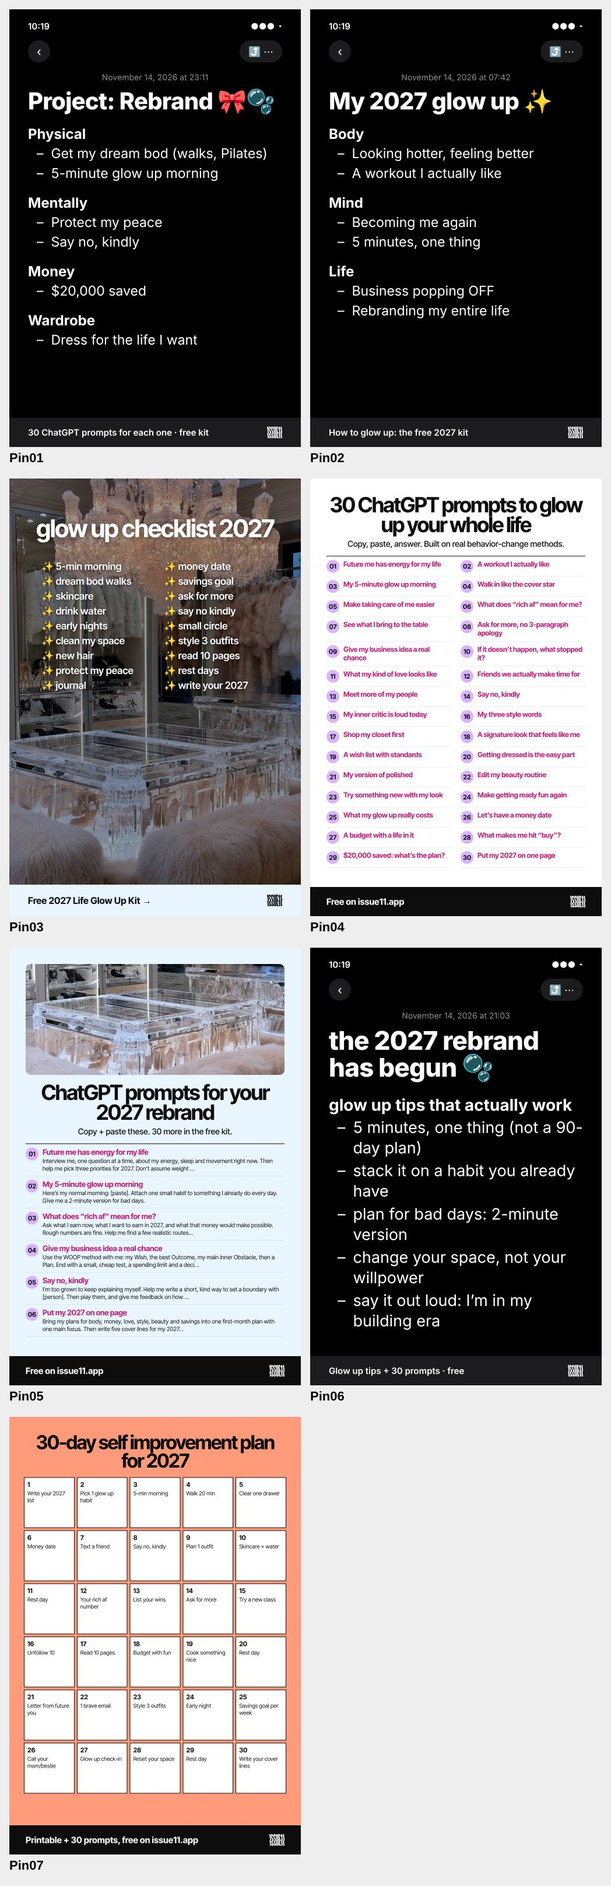
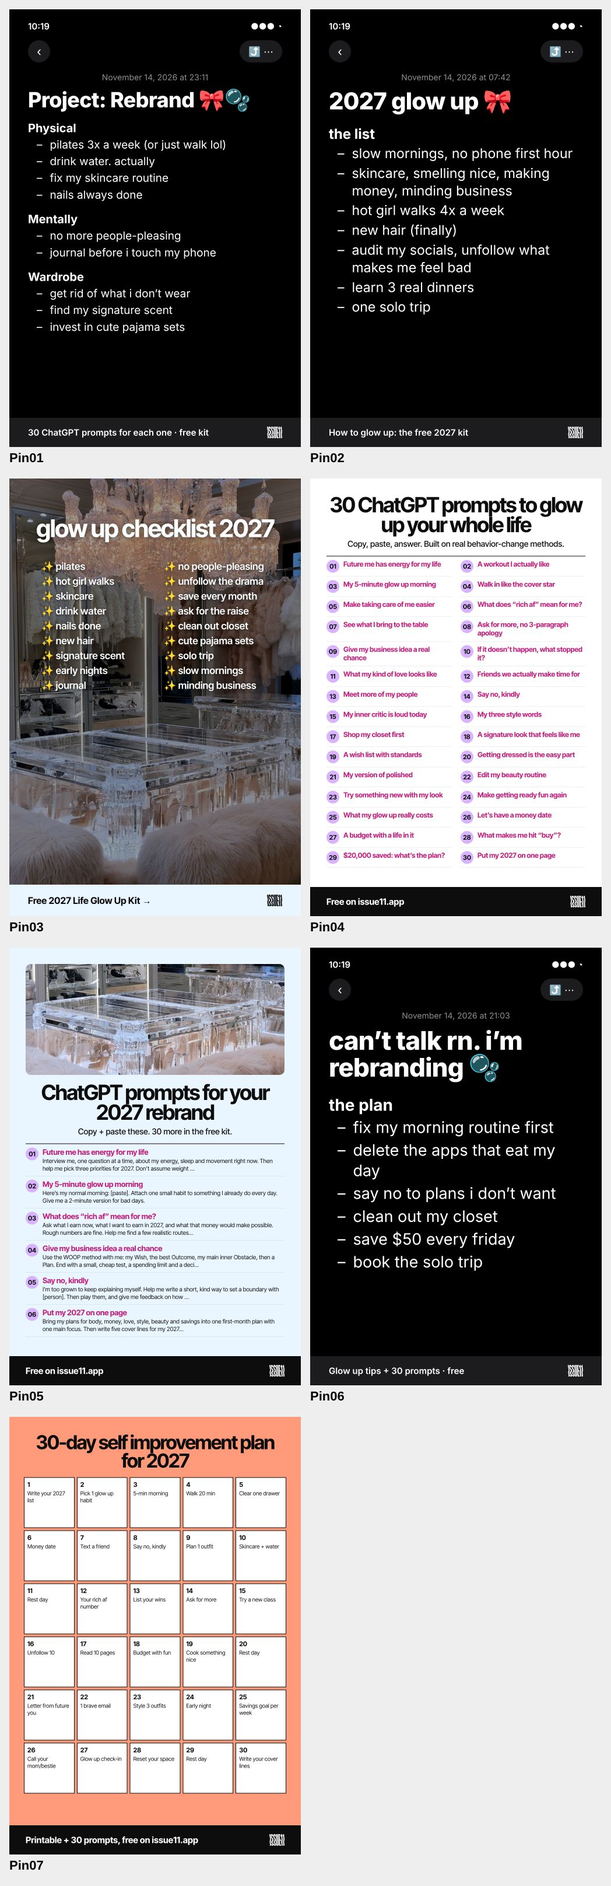
Pins v4: real-voice Notes copy (no AI slogans), honest plan wording
Claude-Session: https://claude.ai/code/session_013zCndAMB566ZdjtTW5BiS4

diff --git a/drafts/pinterest/batch1/Pin03.dc.html b/drafts/pinterest/batch1/Pin03.dc.html
@@ -14,7 +14,7 @@
 <div style="width:1000px; height:1500px; position:relative; overflow:hidden; background:#0D0D0D; font-family:'Inter Tight', 'Apple Color Emoji','Noto Color Emoji','Segoe UI Emoji', sans-serif; color:#0D0D0D">
 <img src="/_blob/7c7c9f7639583c427c5ebf34599a953c" alt="Aspirational editorial photo" style="display:block; object-fit:cover; object-position:50% 72%; position:absolute; inset:0; width:100%; height:100%; filter:brightness(0.62) contrast(1.05)">
 <h1 style="position:absolute; left:0; right:0; top:120px; margin:0; text-align:center; color:#fff; font-size:84px; font-weight:700; letter-spacing:-0.04em; text-shadow:0 2px 16px rgba(0,0,0,0.5)">glow up checklist 2027</h1>
-<div style="position:absolute; left:110px; right:90px; top:280px; display:grid; grid-template-columns:1fr 1fr; gap:0 40px; color:#fff"><div><p style="margin:0 0 10px; font-size:34px; font-weight:600; text-shadow:0 2px 10px rgba(0,0,0,0.55)">✨ 5-min morning</p><p style="margin:0 0 10px; font-size:34px; font-weight:600; text-shadow:0 2px 10px rgba(0,0,0,0.55)">✨ dream bod walks</p><p style="margin:0 0 10px; font-size:34px; font-weight:600; text-shadow:0 2px 10px rgba(0,0,0,0.55)">✨ skincare</p><p style="margin:0 0 10px; font-size:34px; font-weight:600; text-shadow:0 2px 10px rgba(0,0,0,0.55)">✨ drink water</p><p style="margin:0 0 10px; font-size:34px; font-weight:600; text-shadow:0 2px 10px rgba(0,0,0,0.55)">✨ early nights</p><p style="margin:0 0 10px; font-size:34px; font-weight:600; text-shadow:0 2px 10px rgba(0,0,0,0.55)">✨ clean my space</p><p style="margin:0 0 10px; font-size:34px; font-weight:600; text-shadow:0 2px 10px rgba(0,0,0,0.55)">✨ new hair</p><p style="margin:0 0 10px; font-size:34px; font-weight:600; text-shadow:0 2px 10px rgba(0,0,0,0.55)">✨ protect my peace</p><p style="margin:0 0 10px; font-size:34px; font-weight:600; text-shadow:0 2px 10px rgba(0,0,0,0.55)">✨ journal</p></div><div><p style="margin:0 0 10px; font-size:34px; font-weight:600; text-shadow:0 2px 10px rgba(0,0,0,0.55)">✨ money date</p><p style="margin:0 0 10px; font-size:34px; font-weight:600; text-shadow:0 2px 10px rgba(0,0,0,0.55)">✨ savings goal</p><p style="margin:0 0 10px; font-size:34px; font-weight:600; text-shadow:0 2px 10px rgba(0,0,0,0.55)">✨ ask for more</p><p style="margin:0 0 10px; font-size:34px; font-weight:600; text-shadow:0 2px 10px rgba(0,0,0,0.55)">✨ say no kindly</p><p style="margin:0 0 10px; font-size:34px; font-weight:600; text-shadow:0 2px 10px rgba(0,0,0,0.55)">✨ small circle</p><p style="margin:0 0 10px; font-size:34px; font-weight:600; text-shadow:0 2px 10px rgba(0,0,0,0.55)">✨ style 3 outfits</p><p style="margin:0 0 10px; font-size:34px; font-weight:600; text-shadow:0 2px 10px rgba(0,0,0,0.55)">✨ read 10 pages</p><p style="margin:0 0 10px; font-size:34px; font-weight:600; text-shadow:0 2px 10px rgba(0,0,0,0.55)">✨ rest days</p><p style="margin:0 0 10px; font-size:34px; font-weight:600; text-shadow:0 2px 10px rgba(0,0,0,0.55)">✨ write your 2027</p></div></div>
+<div style="position:absolute; left:110px; right:90px; top:280px; display:grid; grid-template-columns:1fr 1fr; gap:0 40px; color:#fff"><div><p style="margin:0 0 10px; font-size:34px; font-weight:600; text-shadow:0 2px 10px rgba(0,0,0,0.55)">✨ pilates</p><p style="margin:0 0 10px; font-size:34px; font-weight:600; text-shadow:0 2px 10px rgba(0,0,0,0.55)">✨ hot girl walks</p><p style="margin:0 0 10px; font-size:34px; font-weight:600; text-shadow:0 2px 10px rgba(0,0,0,0.55)">✨ skincare</p><p style="margin:0 0 10px; font-size:34px; font-weight:600; text-shadow:0 2px 10px rgba(0,0,0,0.55)">✨ drink water</p><p style="margin:0 0 10px; font-size:34px; font-weight:600; text-shadow:0 2px 10px rgba(0,0,0,0.55)">✨ nails done</p><p style="margin:0 0 10px; font-size:34px; font-weight:600; text-shadow:0 2px 10px rgba(0,0,0,0.55)">✨ new hair</p><p style="margin:0 0 10px; font-size:34px; font-weight:600; text-shadow:0 2px 10px rgba(0,0,0,0.55)">✨ signature scent</p><p style="margin:0 0 10px; font-size:34px; font-weight:600; text-shadow:0 2px 10px rgba(0,0,0,0.55)">✨ early nights</p><p style="margin:0 0 10px; font-size:34px; font-weight:600; text-shadow:0 2px 10px rgba(0,0,0,0.55)">✨ journal</p></div><div><p style="margin:0 0 10px; font-size:34px; font-weight:600; text-shadow:0 2px 10px rgba(0,0,0,0.55)">✨ no people-pleasing</p><p style="margin:0 0 10px; font-size:34px; font-weight:600; text-shadow:0 2px 10px rgba(0,0,0,0.55)">✨ unfollow the drama</p><p style="margin:0 0 10px; font-size:34px; font-weight:600; text-shadow:0 2px 10px rgba(0,0,0,0.55)">✨ save every month</p><p style="margin:0 0 10px; font-size:34px; font-weight:600; text-shadow:0 2px 10px rgba(0,0,0,0.55)">✨ ask for the raise</p><p style="margin:0 0 10px; font-size:34px; font-weight:600; text-shadow:0 2px 10px rgba(0,0,0,0.55)">✨ clean out closet</p><p style="margin:0 0 10px; font-size:34px; font-weight:600; text-shadow:0 2px 10px rgba(0,0,0,0.55)">✨ cute pajama sets</p><p style="margin:0 0 10px; font-size:34px; font-weight:600; text-shadow:0 2px 10px rgba(0,0,0,0.55)">✨ solo trip</p><p style="margin:0 0 10px; font-size:34px; font-weight:600; text-shadow:0 2px 10px rgba(0,0,0,0.55)">✨ slow mornings</p><p style="margin:0 0 10px; font-size:34px; font-weight:600; text-shadow:0 2px 10px rgba(0,0,0,0.55)">✨ minding business</p></div></div>
 <div style="position:absolute; left:0; right:0; bottom:0; padding:34px 64px; background:#EAF6FF; display:flex; justify-content:space-between; align-items:center"><span style="font-size:32px; font-weight:700">Free 2027 Life Glow Up Kit →</span><img src="/_blob/d196614efc6265e2205729134fb523b8" alt="ISSUE11" style="height:40px; width:auto;  "></div>
 </div>
 </x-dc>

diff --git a/drafts/pinterest/batch1/Pin01.dc.html b/drafts/pinterest/batch1/Pin01.dc.html
@@ -16,9 +16,9 @@
   <div style="display:flex; justify-content:space-between; font-size:30px; font-weight:600"><span>10:19</span><span>●●● ◔</span></div>
   <div style="display:flex; justify-content:space-between; margin-top:30px"><span style="width:76px; height:76px; border-radius:50%; background:#1c1c1e; display:flex; align-items:center; justify-content:center; font-size:40px">‹</span><span style="height:76px; padding:0 30px; border-radius:40px; background:#1c1c1e; display:flex; align-items:center; font-size:34px">⤴ ⋯</span></div>
   <p style="margin:34px 0 0; text-align:center; font-size:28px; color:#8e8e93">November 14, 2026 at 23:11</p>
-  <h1 style="margin:22px 0 0; font-size:80px; font-weight:800; letter-spacing:-0.02em; line-height:1.05">Project: Rebrand 🎀🫧</h1>
+  <h1 style="margin:22px 0 0; font-size:72px; font-weight:800; letter-spacing:-0.02em; line-height:1.05">Project: Rebrand 🎀🫧</h1>
   
-  <p style="margin:41px 0 6px; font-weight:700; font-size:48px">Physical</p><div style="padding-left:30px; font-size:46px; line-height:1.3"><div style="display:flex; gap:26px; margin:8px 0"><span>–</span><span>Get my dream bod (walks, Pilates)</span></div><div style="display:flex; gap:26px; margin:8px 0"><span>–</span><span>5-minute glow up morning</span></div></div><p style="margin:41px 0 6px; font-weight:700; font-size:48px">Mentally</p><div style="padding-left:30px; font-size:46px; line-height:1.3"><div style="display:flex; gap:26px; margin:8px 0"><span>–</span><span>Protect my peace</span></div><div style="display:flex; gap:26px; margin:8px 0"><span>–</span><span>Say no, kindly</span></div></div><p style="margin:41px 0 6px; font-weight:700; font-size:48px">Money</p><div style="padding-left:30px; font-size:46px; line-height:1.3"><div style="display:flex; gap:26px; margin:8px 0"><span>–</span><span>$20,000 saved</span></div></div><p style="margin:41px 0 6px; font-weight:700; font-size:48px">Wardrobe</p><div style="padding-left:30px; font-size:46px; line-height:1.3"><div style="display:flex; gap:26px; margin:8px 0"><span>–</span><span>Dress for the life I want</span></div></div>
+  <p style="margin:34px 0 6px; font-weight:700; font-size:40px">Physical</p><div style="padding-left:30px; font-size:38px; line-height:1.3"><div style="display:flex; gap:26px; margin:8px 0"><span>–</span><span>pilates 3x a week (or just walk lol)</span></div><div style="display:flex; gap:26px; margin:8px 0"><span>–</span><span>drink water. actually</span></div><div style="display:flex; gap:26px; margin:8px 0"><span>–</span><span>fix my skincare routine</span></div><div style="display:flex; gap:26px; margin:8px 0"><span>–</span><span>nails always done</span></div></div><p style="margin:34px 0 6px; font-weight:700; font-size:40px">Mentally</p><div style="padding-left:30px; font-size:38px; line-height:1.3"><div style="display:flex; gap:26px; margin:8px 0"><span>–</span><span>no more people-pleasing</span></div><div style="display:flex; gap:26px; margin:8px 0"><span>–</span><span>journal before i touch my phone</span></div></div><p style="margin:34px 0 6px; font-weight:700; font-size:40px">Wardrobe</p><div style="padding-left:30px; font-size:38px; line-height:1.3"><div style="display:flex; gap:26px; margin:8px 0"><span>–</span><span>get rid of what i don’t wear</span></div><div style="display:flex; gap:26px; margin:8px 0"><span>–</span><span>find my signature scent</span></div><div style="display:flex; gap:26px; margin:8px 0"><span>–</span><span>invest in cute pajama sets</span></div></div>
 </div>
 <div style="position:absolute; left:0; right:0; bottom:0; padding:30px 64px; background:#1c1c1e; display:flex; justify-content:space-between; align-items:center; color:#fff; font-family:-apple-system, 'SF Pro Text', 'Inter Tight', system-ui, sans-serif">
   <span style="font-size:30px; font-weight:600">30 ChatGPT prompts for each one · free kit</span><img src="/_blob/d196614efc6265e2205729134fb523b8" alt="ISSUE11" style="height:40px; width:auto; filter:invert(1); ">

diff --git a/drafts/pinterest/batch1/Pin02.dc.html b/drafts/pinterest/batch1/Pin02.dc.html
@@ -16,9 +16,9 @@
   <div style="display:flex; justify-content:space-between; font-size:30px; font-weight:600"><span>10:19</span><span>●●● ◔</span></div>
   <div style="display:flex; justify-content:space-between; margin-top:30px"><span style="width:76px; height:76px; border-radius:50%; background:#1c1c1e; display:flex; align-items:center; justify-content:center; font-size:40px">‹</span><span style="height:76px; padding:0 30px; border-radius:40px; background:#1c1c1e; display:flex; align-items:center; font-size:34px">⤴ ⋯</span></div>
   <p style="margin:34px 0 0; text-align:center; font-size:28px; color:#8e8e93">November 14, 2026 at 07:42</p>
-  <h1 style="margin:22px 0 0; font-size:80px; font-weight:800; letter-spacing:-0.02em; line-height:1.05">My 2027 glow up ✨</h1>
+  <h1 style="margin:22px 0 0; font-size:80px; font-weight:800; letter-spacing:-0.02em; line-height:1.05">2027 glow up 🎀</h1>
   
-  <p style="margin:41px 0 6px; font-weight:700; font-size:48px">Body</p><div style="padding-left:30px; font-size:46px; line-height:1.3"><div style="display:flex; gap:26px; margin:8px 0"><span>–</span><span>Looking hotter, feeling better</span></div><div style="display:flex; gap:26px; margin:8px 0"><span>–</span><span>A workout I actually like</span></div></div><p style="margin:41px 0 6px; font-weight:700; font-size:48px">Mind</p><div style="padding-left:30px; font-size:46px; line-height:1.3"><div style="display:flex; gap:26px; margin:8px 0"><span>–</span><span>Becoming me again</span></div><div style="display:flex; gap:26px; margin:8px 0"><span>–</span><span>5 minutes, one thing</span></div></div><p style="margin:41px 0 6px; font-weight:700; font-size:48px">Life</p><div style="padding-left:30px; font-size:46px; line-height:1.3"><div style="display:flex; gap:26px; margin:8px 0"><span>–</span><span>Business popping OFF</span></div><div style="display:flex; gap:26px; margin:8px 0"><span>–</span><span>Rebranding my entire life</span></div></div>
+  <p style="margin:41px 0 6px; font-weight:700; font-size:48px">the list</p><div style="padding-left:30px; font-size:46px; line-height:1.3"><div style="display:flex; gap:26px; margin:8px 0"><span>–</span><span>slow mornings, no phone first hour</span></div><div style="display:flex; gap:26px; margin:8px 0"><span>–</span><span>skincare, smelling nice, making money, minding business</span></div><div style="display:flex; gap:26px; margin:8px 0"><span>–</span><span>hot girl walks 4x a week</span></div><div style="display:flex; gap:26px; margin:8px 0"><span>–</span><span>new hair (finally)</span></div><div style="display:flex; gap:26px; margin:8px 0"><span>–</span><span>audit my socials, unfollow what makes me feel bad</span></div><div style="display:flex; gap:26px; margin:8px 0"><span>–</span><span>learn 3 real dinners</span></div><div style="display:flex; gap:26px; margin:8px 0"><span>–</span><span>one solo trip</span></div></div>
 </div>
 <div style="position:absolute; left:0; right:0; bottom:0; padding:30px 64px; background:#1c1c1e; display:flex; justify-content:space-between; align-items:center; color:#fff; font-family:-apple-system, 'SF Pro Text', 'Inter Tight', system-ui, sans-serif">
   <span style="font-size:30px; font-weight:600">How to glow up: the free 2027 kit</span><img src="/_blob/d196614efc6265e2205729134fb523b8" alt="ISSUE11" style="height:40px; width:auto; filter:invert(1); ">

diff --git a/drafts/pinterest/batch1/Pin09.dc.html b/drafts/pinterest/batch1/Pin09.dc.html
@@ -16,9 +16,9 @@
   <div style="display:flex; justify-content:space-between; font-size:30px; font-weight:600"><span>10:19</span><span>●●● ◔</span></div>
   <div style="display:flex; justify-content:space-between; margin-top:30px"><span style="width:76px; height:76px; border-radius:50%; background:#1c1c1e; display:flex; align-items:center; justify-content:center; font-size:40px">‹</span><span style="height:76px; padding:0 30px; border-radius:40px; background:#1c1c1e; display:flex; align-items:center; font-size:34px">⤴ ⋯</span></div>
   <p style="margin:34px 0 0; text-align:center; font-size:28px; color:#8e8e93">Thursday at 23:04</p>
-  <h1 style="margin:22px 0 0; font-size:80px; font-weight:800; letter-spacing:-0.02em; line-height:1.05">rebranding my entire life at 11pm 🎀</h1>
+  <h1 style="margin:22px 0 0; font-size:88px; font-weight:800; letter-spacing:-0.02em; line-height:1.05">rebranding my entire life at 11pm 🎀</h1>
   
-  <p style="margin:41px 0 6px; font-weight:700; font-size:48px">step 1</p><div style="padding-left:30px; font-size:46px; line-height:1.3"><div style="display:flex; gap:26px; margin:8px 0"><span>–</span><span>write my 2027 list in my own words</span></div></div><p style="margin:41px 0 6px; font-weight:700; font-size:48px">step 2</p><div style="padding-left:30px; font-size:46px; line-height:1.3"><div style="display:flex; gap:26px; margin:8px 0"><span>–</span><span>paste one ChatGPT prompt per chapter</span></div></div><p style="margin:41px 0 6px; font-weight:700; font-size:48px">step 3</p><div style="padding-left:30px; font-size:46px; line-height:1.3"><div style="display:flex; gap:26px; margin:8px 0"><span>–</span><span>do one small thing this week</span></div></div><p style="margin:41px 0 6px; font-weight:700; font-size:48px">step 4</p><div style="padding-left:30px; font-size:46px; line-height:1.3"><div style="display:flex; gap:26px; margin:8px 0"><span>–</span><span>repeat. same girl, bigger dreams.</span></div></div>
+  <p style="margin:48px 0 6px; font-weight:700; font-size:56px">to do</p><div style="padding-left:30px; font-size:54px; line-height:1.3"><div style="display:flex; gap:26px; margin:8px 0"><span>–</span><span>clean out my camera roll</span></div><div style="display:flex; gap:26px; margin:8px 0"><span>–</span><span>update my wardrobe (pinterest board first)</span></div><div style="display:flex; gap:26px; margin:8px 0"><span>–</span><span>no more people-pleasing</span></div><div style="display:flex; gap:26px; margin:8px 0"><span>–</span><span>find a gym i actually like</span></div><div style="display:flex; gap:26px; margin:8px 0"><span>–</span><span>open a savings account just for travel</span></div><div style="display:flex; gap:26px; margin:8px 0"><span>–</span><span>sunday reset: sheets, nails, meal prep</span></div></div>
 </div>
 <div style="position:absolute; left:0; right:0; bottom:0; padding:30px 64px; background:#1c1c1e; display:flex; justify-content:space-between; align-items:center; color:#fff; font-family:-apple-system, 'SF Pro Text', 'Inter Tight', system-ui, sans-serif">
   <span style="font-size:30px; font-weight:600">How to rebrand yourself · free kit</span><img src="/_blob/d196614efc6265e2205729134fb523b8" alt="ISSUE11" style="height:40px; width:auto; filter:invert(1); ">

diff --git a/drafts/pinterest/batch1/Pin06.dc.html b/drafts/pinterest/batch1/Pin06.dc.html
@@ -2,7 +2,7 @@
 <html lang="en">
 <head>
 <meta charset="utf-8">
-<title>Glow up tips · Notes 'the 2027 rebrand has begun'</title>
+<title>Glow up tips · Notes 'can't talk rn'</title>
 <script src="./support.js"></script>
 </head>
 <body>
@@ -16,9 +16,9 @@
   <div style="display:flex; justify-content:space-between; font-size:30px; font-weight:600"><span>10:19</span><span>●●● ◔</span></div>
   <div style="display:flex; justify-content:space-between; margin-top:30px"><span style="width:76px; height:76px; border-radius:50%; background:#1c1c1e; display:flex; align-items:center; justify-content:center; font-size:40px">‹</span><span style="height:76px; padding:0 30px; border-radius:40px; background:#1c1c1e; display:flex; align-items:center; font-size:34px">⤴ ⋯</span></div>
   <p style="margin:34px 0 0; text-align:center; font-size:28px; color:#8e8e93">November 14, 2026 at 21:03</p>
-  <h1 style="margin:22px 0 0; font-size:88px; font-weight:800; letter-spacing:-0.02em; line-height:1.05">the 2027 rebrand has begun 🫧</h1>
+  <h1 style="margin:22px 0 0; font-size:88px; font-weight:800; letter-spacing:-0.02em; line-height:1.05">can’t talk rn. i’m rebranding 🫧</h1>
   
-  <p style="margin:48px 0 6px; font-weight:700; font-size:56px">glow up tips that actually work</p><div style="padding-left:30px; font-size:54px; line-height:1.3"><div style="display:flex; gap:26px; margin:8px 0"><span>–</span><span>5 minutes, one thing (not a 90-day plan)</span></div><div style="display:flex; gap:26px; margin:8px 0"><span>–</span><span>stack it on a habit you already have</span></div><div style="display:flex; gap:26px; margin:8px 0"><span>–</span><span>plan for bad days: 2-minute version</span></div><div style="display:flex; gap:26px; margin:8px 0"><span>–</span><span>change your space, not your willpower</span></div><div style="display:flex; gap:26px; margin:8px 0"><span>–</span><span>say it out loud: I’m in my building era</span></div></div>
+  <p style="margin:48px 0 6px; font-weight:700; font-size:56px">the plan</p><div style="padding-left:30px; font-size:54px; line-height:1.3"><div style="display:flex; gap:26px; margin:8px 0"><span>–</span><span>fix my morning routine first</span></div><div style="display:flex; gap:26px; margin:8px 0"><span>–</span><span>delete the apps that eat my day</span></div><div style="display:flex; gap:26px; margin:8px 0"><span>–</span><span>say no to plans i don’t want</span></div><div style="display:flex; gap:26px; margin:8px 0"><span>–</span><span>clean out my closet</span></div><div style="display:flex; gap:26px; margin:8px 0"><span>–</span><span>save $50 every friday</span></div><div style="display:flex; gap:26px; margin:8px 0"><span>–</span><span>book the solo trip</span></div></div>
 </div>
 <div style="position:absolute; left:0; right:0; bottom:0; padding:30px 64px; background:#1c1c1e; display:flex; justify-content:space-between; align-items:center; color:#fff; font-family:-apple-system, 'SF Pro Text', 'Inter Tight', system-ui, sans-serif">
   <span style="font-size:30px; font-weight:600">Glow up tips + 30 prompts · free</span><img src="/_blob/d196614efc6265e2205729134fb523b8" alt="ISSUE11" style="height:40px; width:auto; filter:invert(1); ">

diff --git a/drafts/pinterest/batch1/Pin15.dc.html b/drafts/pinterest/batch1/Pin15.dc.html
@@ -18,7 +18,7 @@
   <p style="margin:34px 0 0; text-align:center; font-size:28px; color:#8e8e93">November 15, 2026 at 09:12</p>
   <h1 style="margin:22px 0 0; font-size:80px; font-weight:800; letter-spacing:-0.02em; line-height:1.05">how to lifemaxx 2027 🫧</h1>
   
-  <p style="margin:41px 0 6px; font-weight:700; font-size:48px">body</p><div style="padding-left:30px; font-size:46px; line-height:1.3"><div style="display:flex; gap:26px; margin:8px 0"><span>–</span><span>walks + Pilates, dream bod energy</span></div><div style="display:flex; gap:26px; margin:8px 0"><span>–</span><span>5-minute glow up morning</span></div></div><p style="margin:41px 0 6px; font-weight:700; font-size:48px">money</p><div style="padding-left:30px; font-size:46px; line-height:1.3"><div style="display:flex; gap:26px; margin:8px 0"><span>–</span><span>know my rich af number</span></div><div style="display:flex; gap:26px; margin:8px 0"><span>–</span><span>$20,000 saved, on purpose</span></div></div><p style="margin:41px 0 6px; font-weight:700; font-size:48px">life</p><div style="padding-left:30px; font-size:46px; line-height:1.3"><div style="display:flex; gap:26px; margin:8px 0"><span>–</span><span>small circle, big plans</span></div><div style="display:flex; gap:26px; margin:8px 0"><span>–</span><span>rebranding my entire life</span></div></div>
+  <p style="margin:41px 0 6px; font-weight:700; font-size:48px">daily</p><div style="padding-left:30px; font-size:46px; line-height:1.3"><div style="display:flex; gap:26px; margin:8px 0"><span>–</span><span>pilates or a hot girl walk</span></div><div style="display:flex; gap:26px; margin:8px 0"><span>–</span><span>water + protein (be real)</span></div><div style="display:flex; gap:26px; margin:8px 0"><span>–</span><span>phone in another room after 10pm</span></div></div><p style="margin:41px 0 6px; font-weight:700; font-size:48px">monthly</p><div style="padding-left:30px; font-size:46px; line-height:1.3"><div style="display:flex; gap:26px; margin:8px 0"><span>–</span><span>save first, spend after</span></div><div style="display:flex; gap:26px; margin:8px 0"><span>–</span><span>one new thing: a class, a city, a recipe</span></div></div><p style="margin:41px 0 6px; font-weight:700; font-size:48px">always</p><div style="padding-left:30px; font-size:46px; line-height:1.3"><div style="display:flex; gap:26px; margin:8px 0"><span>–</span><span>skincare, smelling nice, minding business</span></div></div>
 </div>
 <div style="position:absolute; left:0; right:0; bottom:0; padding:30px 64px; background:#1c1c1e; display:flex; justify-content:space-between; align-items:center; color:#fff; font-family:-apple-system, 'SF Pro Text', 'Inter Tight', system-ui, sans-serif">
   <span style="font-size:30px; font-weight:600">Lifemaxxing guide + 30 prompts · free</span><img src="/_blob/d196614efc6265e2205729134fb523b8" alt="ISSUE11" style="height:40px; width:auto; filter:invert(1); ">

diff --git a/drafts/pinterest/batch1/Pin14.dc.html b/drafts/pinterest/batch1/Pin14.dc.html
@@ -18,7 +18,7 @@
   <p style="margin:34px 0 0; text-align:center; font-size:28px; color:#8e8e93">November 14, 2026 at 22:30</p>
   <h1 style="margin:22px 0 0; font-size:88px; font-weight:800; letter-spacing:-0.02em; line-height:1.05">letter to my future self ✍</h1>
   
-  <p style="margin:48px 0 6px; font-weight:700; font-size:56px">prompts</p><div style="padding-left:30px; font-size:54px; line-height:1.3"><div style="display:flex; gap:26px; margin:8px 0"><span>–</span><span>What does my morning look like?</span></div><div style="display:flex; gap:26px; margin:8px 0"><span>–</span><span>What did I stop apologizing for?</span></div><div style="display:flex; gap:26px; margin:8px 0"><span>–</span><span>Who is in my circle now?</span></div><div style="display:flex; gap:26px; margin:8px 0"><span>–</span><span>What am I proud of?</span></div><div style="display:flex; gap:26px; margin:8px 0"><span>–</span><span>What would I tell 2026 me?</span></div></div>
+  <p style="margin:48px 0 6px; font-weight:700; font-size:56px">dear me, it’s dec 2027…</p><div style="padding-left:30px; font-size:54px; line-height:1.3"><div style="display:flex; gap:26px; margin:8px 0"><span>–</span><span>what does my morning look like now</span></div><div style="display:flex; gap:26px; margin:8px 0"><span>–</span><span>what did i finally stop doing</span></div><div style="display:flex; gap:26px; margin:8px 0"><span>–</span><span>who’s still in my circle</span></div><div style="display:flex; gap:26px; margin:8px 0"><span>–</span><span>what am i proudest of</span></div><div style="display:flex; gap:26px; margin:8px 0"><span>–</span><span>what would i tell 2026 me</span></div></div>
 </div>
 <div style="position:absolute; left:0; right:0; bottom:0; padding:30px 64px; background:#1c1c1e; display:flex; justify-content:space-between; align-items:center; color:#fff; font-family:-apple-system, 'SF Pro Text', 'Inter Tight', system-ui, sans-serif">
   <span style="font-size:30px; font-weight:600">Future self letter prompts · free kit</span><img src="/_blob/d196614efc6265e2205729134fb523b8" alt="ISSUE11" style="height:40px; width:auto; filter:invert(1); ">

diff --git a/drafts/pinterest/batch1/generator.py b/drafts/pinterest/batch1/generator.py
@@ -90,15 +90,15 @@ allp=[t for ch in chapters for t in ch[1]]
 short=[(f"{i+1:02d}",p[0].rstrip('.'),p[2]) for i,p in enumerate(allp)]
 days=["Write your 2027 list","Pick 1 glow up habit","5-min morning","Walk 20 min","Clear one drawer","Money date","Text a friend","Say no, kindly","Plan 1 outfit","Skincare + water","Rest day","Your rich af number","List your wins","Ask for more","Try a new class","Unfollow 10","Read 10 pages","Budget with fun","Cook something nice","Rest day","Letter from future you","1 brave email","Style 3 outfits","Early night","Savings goal per week","Call your mom/bestie","Glow up check-in","Reset your space","Rest day","Write your cover lines"]
 P=[
- ("Pin01","How to rebrand yourself · Notes 'Project: Rebrand'", notes("November 14, 2026 at 23:11","Project: Rebrand 🎀🫧",[("Physical",["Get my dream bod (walks, Pilates)","5-minute glow up morning"]),("Mentally",["Protect my peace","Say no, kindly"]),("Money",["$20,000 saved"]),("Wardrobe",["Dress for the life I want"])],"30 ChatGPT prompts for each one · free kit")),
- ("Pin02","How to glow up in 2027 · Notes checklist", notes("November 14, 2026 at 07:42","My 2027 glow up ✨",[("Body",["Looking hotter, feeling better","A workout I actually like"]),("Mind",["Becoming me again","5 minutes, one thing"]),("Life",["Business popping OFF","Rebranding my entire life"])],"How to glow up: the free 2027 kit")),
- ("Pin03","Glow up checklist 2027 · ✨ list over photo", checklist("glow up checklist 2027",["5-min morning","dream bod walks","skincare","drink water","early nights","clean my space","new hair","protect my peace","journal"],["money date","savings goal","ask for more","say no kindly","small circle","style 3 outfits","read 10 pages","rest days","write your 2027"],"e21","Free 2027 Life Glow Up Kit →")),
+  ("Pin01","How to rebrand yourself · Notes 'Project: Rebrand'", notes("November 14, 2026 at 23:11","Project: Rebrand 🎀🫧",[("Physical",["pilates 3x a week (or just walk lol)","drink water. actually","fix my skincare routine","nails always done"]),("Mentally",["no more people-pleasing","journal before i touch my phone"]),("Wardrobe",["get rid of what i don’t wear","find my signature scent","invest in cute pajama sets"])],"30 ChatGPT prompts for each one · free kit")),
+  ("Pin02","How to glow up in 2027 · Notes checklist", notes("November 14, 2026 at 07:42","2027 glow up 🎀",[("the list",["slow mornings, no phone first hour","skincare, smelling nice, making money, minding business","hot girl walks 4x a week","new hair (finally)","audit my socials, unfollow what makes me feel bad","learn 3 real dinners","one solo trip"])],"How to glow up: the free 2027 kit")),
+ ("Pin03","Glow up checklist 2027 · ✨ list over photo", checklist("glow up checklist 2027",["pilates","hot girl walks","skincare","drink water","nails done","new hair","signature scent","early nights","journal"],["no people-pleasing","unfollow the drama","save every month","ask for the raise","clean out closet","cute pajama sets","solo trip","slow mornings","minding business"],"e21","Free 2027 Life Glow Up Kit →")),
  ("Pin04","ChatGPT prompts for self improvement · 30 cheat sheet", cheatsheet("30 ChatGPT prompts to glow up your whole life","Copy, paste, answer. Built on real behavior-change methods.",[(n,a,"") for n,a,_ in short],cols=2,fs=22)),
  ("Pin05","ChatGPT prompts for self improvement · 6 full prompts", cheatsheet("ChatGPT prompts for your 2027 rebrand","Copy + paste these. 30 more in the free kit.",[(f"{i+1:02d}",allp[j][0].rstrip('.'),allp[j][1][:150]+('…' if len(allp[j][1])>150 else '')) for i,j in enumerate([0,2,5,8,13,29])],cols=1,bg=ICE,fs=24,photo="e21",photo_h=380)),
- ("Pin06","Glow up tips · Notes 'the 2027 rebrand has begun'", notes("November 14, 2026 at 21:03","the 2027 rebrand has begun 🫧",[("glow up tips that actually work",["5 minutes, one thing (not a 90-day plan)","stack it on a habit you already have","plan for bad days: 2-minute version","change your space, not your willpower","say it out loud: I’m in my building era"])],"Glow up tips + 30 prompts · free")),
+  ("Pin06","Glow up tips · Notes 'can't talk rn'", notes("November 14, 2026 at 21:03","can’t talk rn. i’m rebranding 🫧",[("the plan",["fix my morning routine first","delete the apps that eat my day","say no to plans i don’t want","clean out my closet","save $50 every friday","book the solo trip"])],"Glow up tips + 30 prompts · free")),
  ("Pin07","Self improvement plan 2027 · 30-day printable", grid("30-day self improvement plan for 2027",days,PEACH)),
  ("Pin08","Self improvement plan · type card", typecard("I’m not behind. I’m becoming.","A 30-day self improvement plan, 5 minutes a day. Free.",INK,"#fff","e29")),
- ("Pin09","How to rebrand yourself · Notes 'rebranding my entire life at 11pm'", notes("Thursday at 23:04","rebranding my entire life at 11pm 🎀",[("step 1",["write my 2027 list in my own words"]),("step 2",["paste one ChatGPT prompt per chapter"]),("step 3",["do one small thing this week"]),("step 4",["repeat. same girl, bigger dreams."])],"How to rebrand yourself · free kit")),
+  ("Pin09","How to rebrand yourself · Notes 'rebranding my entire life at 11pm'", notes("Thursday at 23:04","rebranding my entire life at 11pm 🎀",[("to do",["clean out my camera roll","update my wardrobe (pinterest board first)","no more people-pleasing","find a gym i actually like","open a savings account just for travel","sunday reset: sheets, nails, meal prep"])],"How to rebrand yourself · free kit")),
  ("Pin10","How to rebrand yourself · type card", typecard("Becoming me again, on purpose.","How to rebrand yourself in 2027: 30 prompts + a 30-day plan. Free.",LILAC,INK,"e22")),
  ("Pin11","Personal rebrand prompts · chapters cheat sheet", cheatsheet("Personal rebrand prompts by chapter","Physical · Money · Love · Fashion · Beauty · Finances",[(f"{i+1:02d}",ch[0].split('·')[0].strip()+": "+ch[0].split('·')[1].strip(),", ".join(p[0].rstrip('.') for p in ch[1][:3])) for i,ch in enumerate(chapters)],cols=1,bg="#fff",fs=26,photo="e22")),
  ("Pin12","My 2027 · approved Notes desire format", notes("January 1, 2027","Me 🫱🏻🫲🏽 2027",[("claim it",["✅ glowing up","✅ looking hotter","✅ rebranding my entire life","✅ business popping OFF","✅ $20,000 saved","✅ become my own dream girl"])],"write yours on issue11.app · free")),
@@ -109,8 +109,8 @@ P=[
   <p style="margin:26px 0 0; text-align:right; font-size:40px; font-weight:600">Love, future you</p>
 </div>
 <div style="position:absolute; left:0; right:0; bottom:0; padding:30px 60px; background:{INK}; color:#fff; display:flex; justify-content:space-between; align-items:center"><span style="font-size:30px; font-weight:700">Future self letter printable · free</span>{logo(True)}</div>""")),
- ("Pin14","Future self letter prompts · Notes", notes("November 14, 2026 at 22:30","letter to my future self ✍",[("prompts",["What does my morning look like?","What did I stop apologizing for?","Who is in my circle now?","What am I proud of?","What would I tell 2026 me?"])],"Future self letter prompts · free kit")),
- ("Pin15","Lifemaxxing · Notes 'how to lifemaxx 2027'", notes("November 15, 2026 at 09:12","how to lifemaxx 2027 🫧",[("body",["walks + Pilates, dream bod energy","5-minute glow up morning"]),("money",["know my rich af number","$20,000 saved, on purpose"]),("life",["small circle, big plans","rebranding my entire life"])],"Lifemaxxing guide + 30 prompts · free")),
+  ("Pin14","Future self letter prompts · Notes", notes("November 14, 2026 at 22:30","letter to my future self ✍",[("dear me, it’s dec 2027…",["what does my morning look like now","what did i finally stop doing","who’s still in my circle","what am i proudest of","what would i tell 2026 me"])],"Future self letter prompts · free kit")),
+  ("Pin15","Lifemaxxing · Notes 'how to lifemaxx 2027'", notes("November 15, 2026 at 09:12","how to lifemaxx 2027 🫧",[("daily",["pilates or a hot girl walk","water + protein (be real)","phone in another room after 10pm"]),("monthly",["save first, spend after","one new thing: a class, a city, a recipe"]),("always",["skincare, smelling nice, minding business"])],"Lifemaxxing guide + 30 prompts · free")),
  ("Pin16","Lifemaxxing 101 · cheat sheet", cheatsheet("Lifemaxxing 101: your 2027 guide","One chapter at a time. Paste the prompt, do one small thing.",[(f"{i+1:02d}",ch[0].split('·')[0].strip()+"maxxing" if False else ch[0].split('·')[1].strip(),"Prompt: "+ch[1][0][0].rstrip('.')) for i,ch in enumerate(chapters)],cols=1,bg=LILAC,fs=28,photo="e22",photo_h=330)),
 ]
 c=json.load(open(f"{R}/project/canvas.json"))

diff --git a/.pipeline/lessons.md b/.pipeline/lessons.md
@@ -528,3 +528,4 @@ Format: `- YYYY-MM-DD · <agent> · <what> · why · cost`
 - 2026-11-14 DONE (Megan's link: Anthropic cookbook "The Chief of Staff agent"): it's a tutorial (fake startup data), not a skill to install. Scanned and logged. Adopted its executive brief pattern as /decision-brief (.claude/commands/decision-brief.md): recommendation first, real numbers only, reasoning, 2 alternatives, risks, one next step. The ECC inbox chief-of-staff is separate and still waits on Megan's OK (it reads her Gmail).
 - 2026-11-14 RULE (Megan: "I think we need to make the pins based off what's gone viral" / "Also please use our audience lexicon as well as Pinterest SEO keywords" / "the text isn't great and the images don't really correlate with what we're offering" / "I think the images need to be more aspirational, kind of like the closets"): before designing pins, pull the top pins for each target keyword (Apify lergassy/pinterest-search-scraper) and copy the winning FORMAT (Notes screenshot, ✨ checklist, numbered cheat sheet, printable grid, type card). Show the actual freebie content, add aspirational photos (closets, money, dream desk), write the copy in lexicon words, and use keyword-first titles, descriptions, boards and alt text. Batch 1 v2: drafts/pinterest/batch1/PINS.md.
 - 2026-11-15 RULE (Megan: "crop the images more accurately" / "the notes app pins don't need visuals" / "I also think we could use terms like 'lifemaxx'" / "How to lifemaxx 2027"): Notes-screenshot pins are text only. Every photo gets a set focal point (object-position) so faces and closets aren't cut. Lifemaxxing is a validated keyword (Google 1,200/mo; Pinterest suggests "lifemaxxing magazine", wallpaper, guide, 101); use "lifemaxxing" in titles. Pass "lifemaxxing magazine" to the ASO/landing rooms.
+- 2026-11-15 RULE (Megan: "I don't know the goals still sound written by ai 😭"): Notes-style pin lists must sound like a real girl's phone notes. Use concrete, slightly messy, lowercase items ("pilates 3x a week (or just walk lol)", "drink water. actually", "get rid of what i don't wear", "find my signature scent", "invest in cute pajama sets"), lifted from the viral pins and real lexicon lines ("skincare, smelling nice, making money, minding business", "can't talk rn. i'm rebranding", "no more people-pleasing", "audit my socials"). No slogans ("5 minutes, one thing", "protect my peace"), no polished parallel phrasing. Never fake results ("what actually worked": written as a plan instead).
